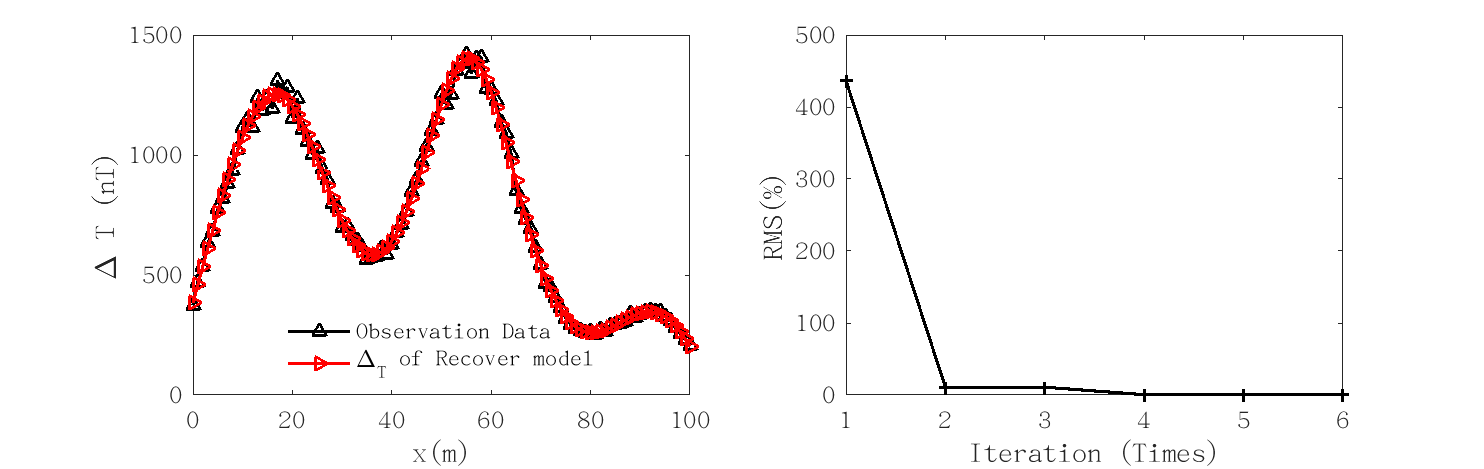
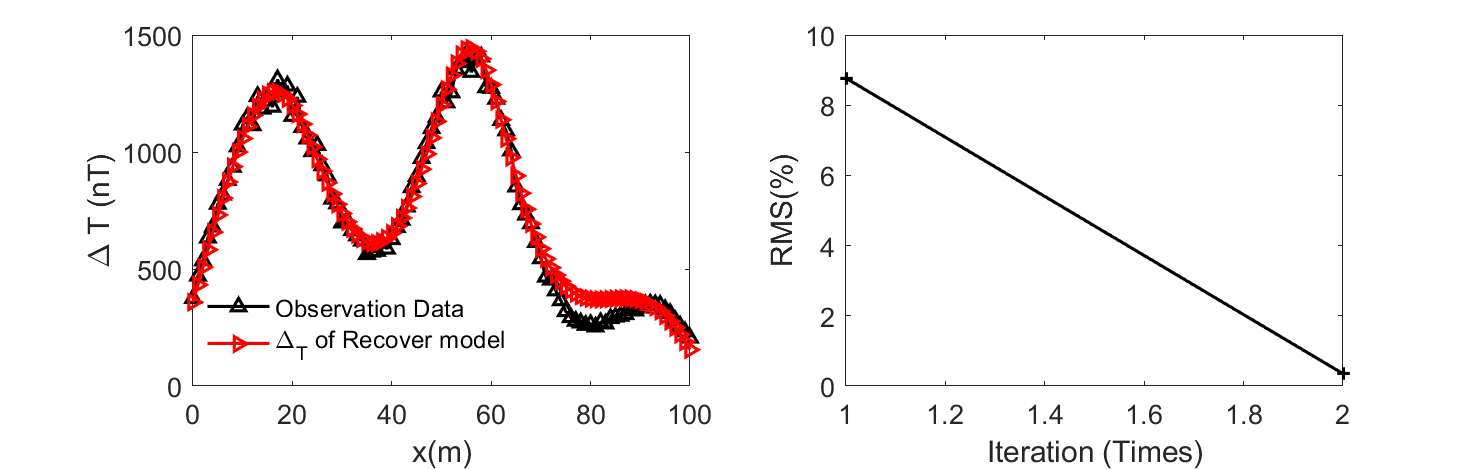
plot on Win

diff --git a/Inversion_main.m b/Inversion_main.m
@@ -77,14 +77,14 @@ end
 %% Wm2 最光滑约束
 W_m = W_m_2;
 tic % 计时
-% [recover_model, Rms] = gauss_newton_inversion(maxit, lambda, ...
-%                             observation_Delta_T, x_observation, z_observation,...
-%                             inv_x_left, inv_x_right, m_0, inv_z_buttom, M, Is, m_ref);
+[recover_model, Rms] = gauss_newton_inversion(maxit, lambda, ...
+                            observation_Delta_T, x_observation, z_observation,...
+                            inv_x_left, inv_x_right, m_0, inv_z_buttom, M, Is, m_ref);
 
-[recover_model, Rms] = gauss_newton_inversion_cool(maxit, max_lambda, num_lambda, cooling_rate,...
-                                        observation_Delta_T, x_observation, ...
-                                        z_observation, inv_x_left, inv_x_right,...
-                                        m_0, inv_z_buttom, M, Is,m_ref);                        
+% [recover_model, Rms] = gauss_newton_inversion_cool(maxit, max_lambda, num_lambda, cooling_rate,...
+%                                         observation_Delta_T, x_observation, ...
+%                                         z_observation, inv_x_left, inv_x_right,...
+%                                         m_0, inv_z_buttom, M, Is,m_ref);                        
 % for i = 1: maxit
 %      [J] = compute_jacobi(x_observation, z_observation, inv_x_left, inv_x_right, m_0, inv_z_buttom, M, Is);
 %      [Hax_m0, Za_m0, delta_T_m0] = magnetic_forward_2D_Guan(x_observation, z_observation, inv_x_left, inv_x_right, m_0, inv_z_buttom, M, Is);
